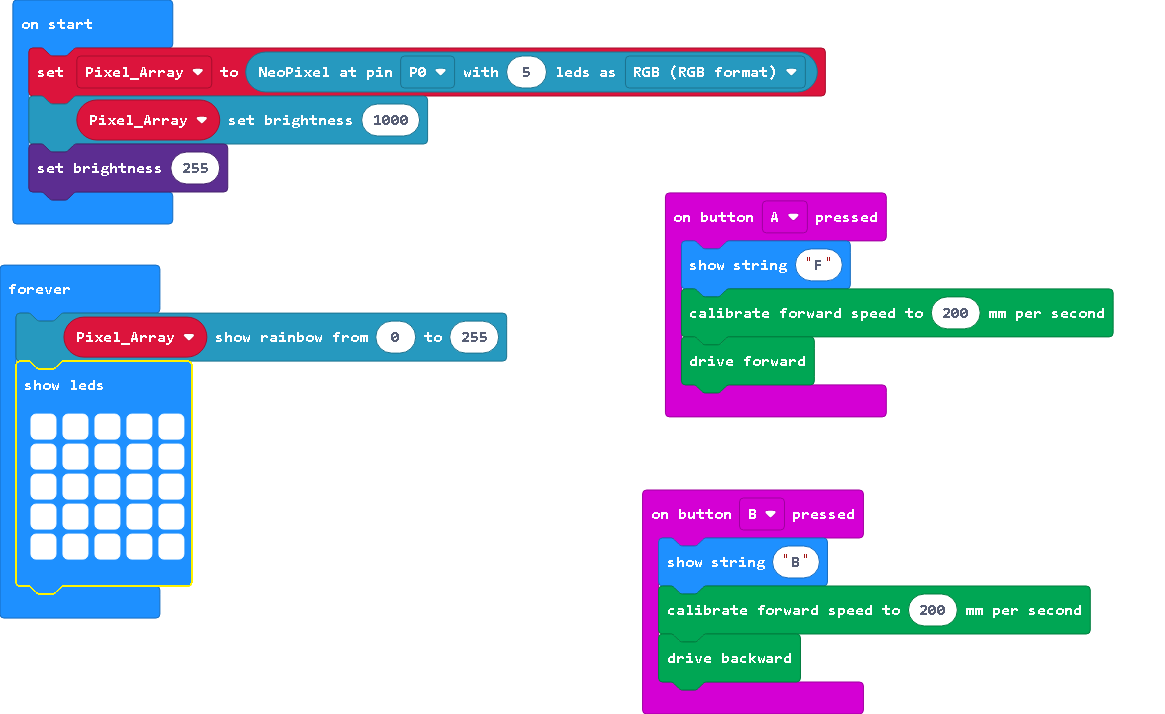
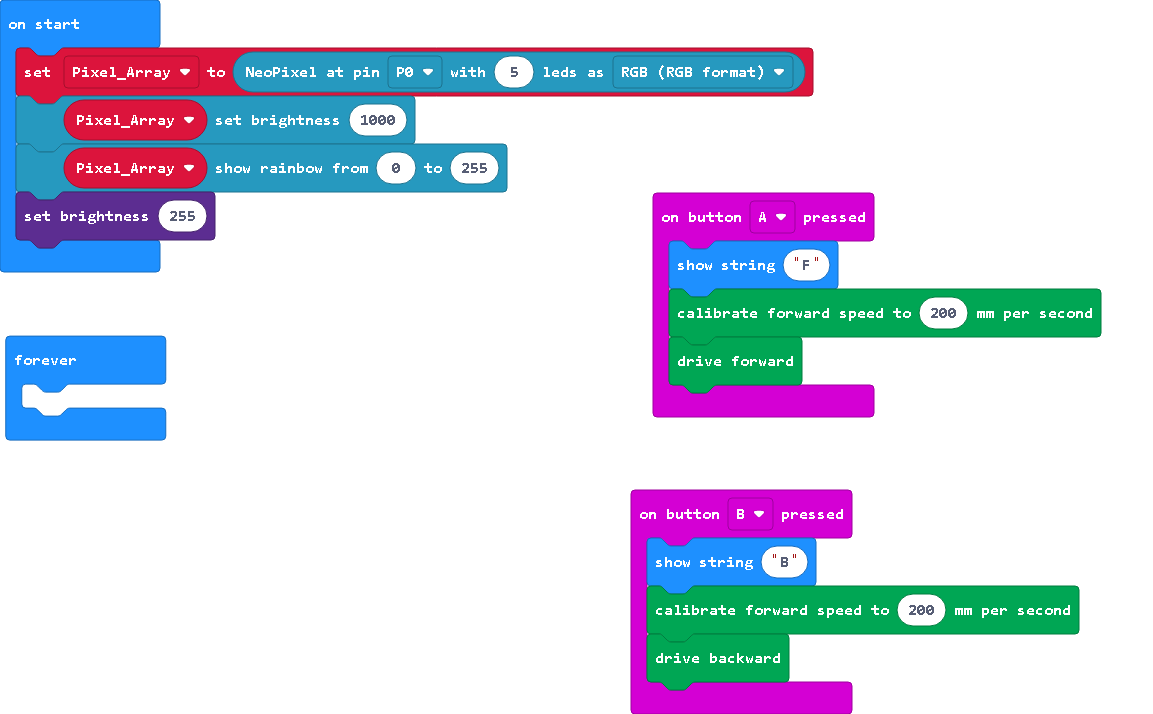
Update pxt.json, main.blocks, main.ts, main.py

diff --git a/main.ts b/main.ts
@@ -10,14 +10,8 @@ input.onButtonPressed(Button.B, function () {
 })
 let Pixel_Array = neopixel.create(DigitalPin.P0, 5, NeoPixelMode.RGB_RGB)
 Pixel_Array.setBrightness(1000)
+Pixel_Array.showRainbow(0, 255)
 led.setBrightness(255)
 basic.forever(function () {
-    Pixel_Array.showRainbow(0, 255)
-    basic.showLeds(`
-        # # # # #
-        # # # # #
-        # # # # #
-        # # # # #
-        # # # # #
-        `)
+	
 })

diff --git a/main.py b/main.py
@@ -1,21 +1,23 @@
-def on_button_pressed_a():
-    basic.show_string("F")
-    kitronik_servo_lite.set_distance_per_second(200)
+input.onButtonPressed(Button.A, function () {
+    basic.showString("F")
+    kitronik_servo_lite.setDistancePerSecond(200)
     kitronik_servo_lite.forward()
-input.on_button_pressed(Button.A, on_button_pressed_a)
-
-def on_button_pressed_b():
-    basic.show_string("B")
-    kitronik_servo_lite.set_distance_per_second(200)
+})
+input.onButtonPressed(Button.B, function () {
+    basic.showString("B")
+    kitronik_servo_lite.setDistancePerSecond(200)
     kitronik_servo_lite.backward()
-input.on_button_pressed(Button.B, on_button_pressed_b)
-
-Pixel_Array = neopixel.create(DigitalPin.P0, 5, NeoPixelMode.RGB_RGB)
-
-def on_forever():
-    Pixel_Array.set_brightness(1000)
-    Pixel_Array.show_rainbow(0, 255)
-    basic.pause(2000)
-    basic.show_string("" + str((Pixel_Array.power())))
-    basic.pause(2000)
-basic.forever(on_forever)
+})
+let Pixel_Array = neopixel.create(DigitalPin.P0, 5, NeoPixelMode.RGB_RGB)
+Pixel_Array.setBrightness(1000)
+led.setBrightness(255)
+basic.forever(function () {
+    Pixel_Array.showRainbow(0, 255)
+    basic.showLeds(`
+        # # # # #
+        # # # # #
+        # # # # #
+        # # # # #
+        # # # # #
+        `)
+})
